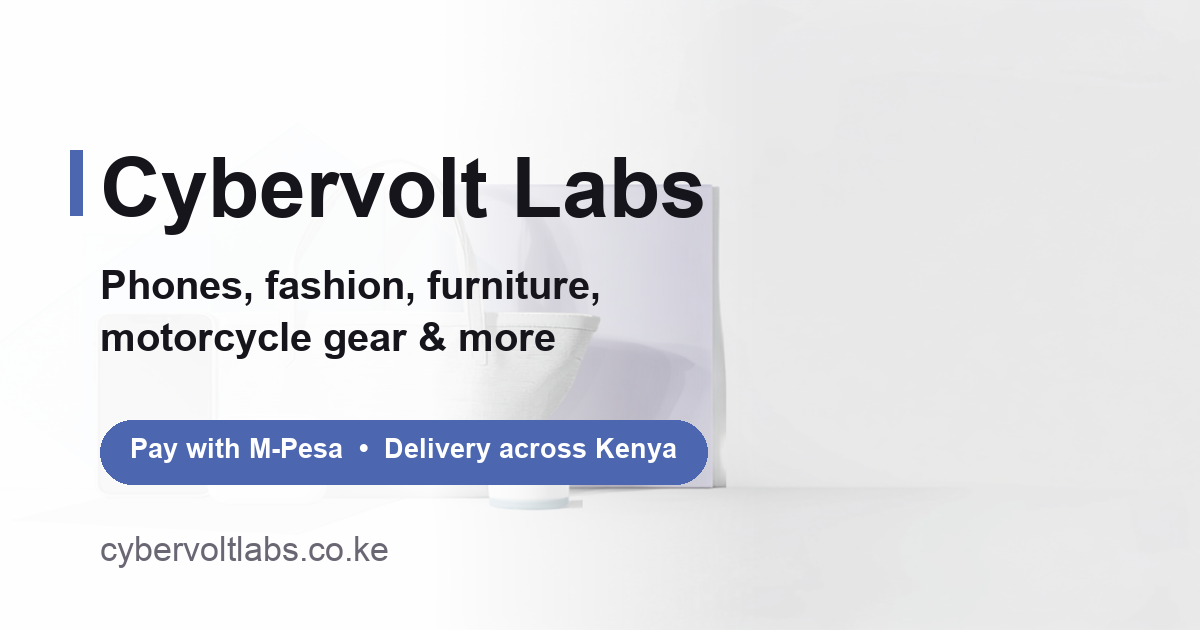
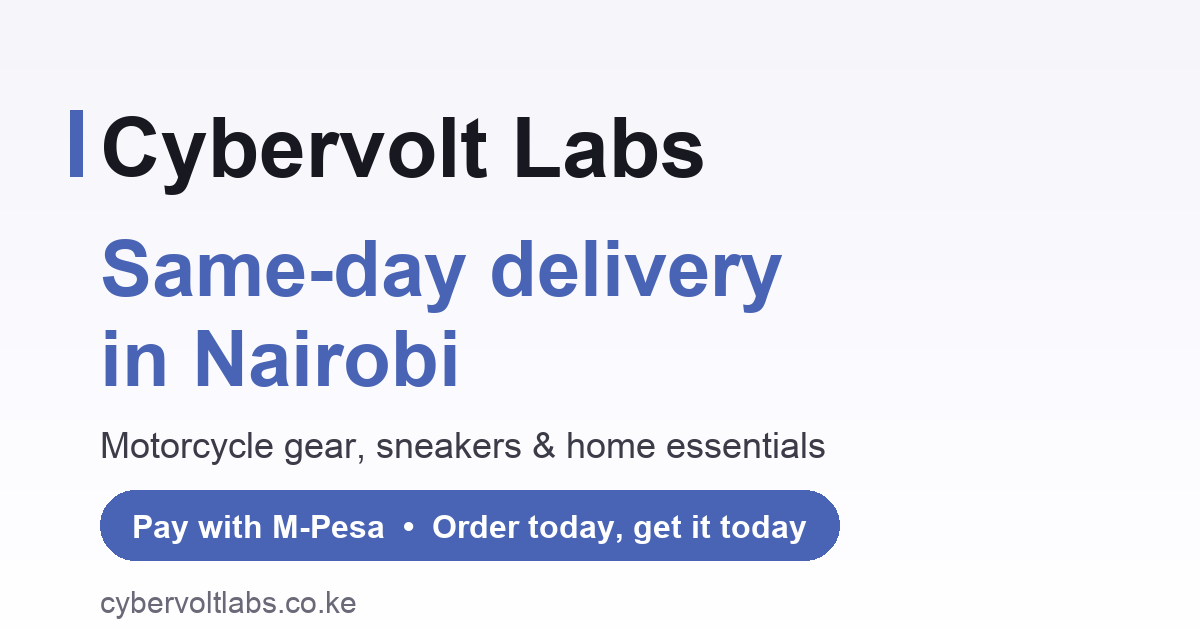
Promote same-day Nairobi delivery site-wide

Changed region(s): [[0.0308, 0.181, 0.8017, 1.0], [0.0925, 0.9349, 0.3083, 0.9952]]

diff --git a/lib/seo.ts b/lib/seo.ts
@@ -4,14 +4,14 @@ import { SOCIAL_LINKS } from "@/lib/social";
 
 export const SITE_URL = "https://cybervoltlabs.co.ke";
 export const SITE_NAME = "Cybervolt Labs";
-export const DEFAULT_TITLE = "Cybervolt Labs | Motorcycle Gear, Sneakers & Home in Kenya";
+export const DEFAULT_TITLE = "Cybervolt Labs | Same-Day Delivery in Nairobi, Kenya";
 export const DEFAULT_DESCRIPTION =
-  "Shop motorcycle riding gear, sneakers, bedding, home décor and smart gadgets at Cybervolt Labs. Pay with M-Pesa. Delivery across Kenya.";
+  "Same-day delivery in Nairobi. Shop motorcycle riding gear, sneakers, bedding, home décor and smart gadgets at Cybervolt Labs. Pay with M-Pesa.";
 
 const TITLE_SUFFIX = ` | ${SITE_NAME}`;
 
 // Used whenever a page has no image of its own (a page-level openGraph replaces the layout's).
-const SHARE_IMAGE_ALT = "Cybervolt Labs — motorcycle gear, sneakers and home essentials in Kenya. Pay with M-Pesa.";
+const SHARE_IMAGE_ALT = "Cybervolt Labs — same-day delivery in Nairobi. Motorcycle gear, sneakers and home essentials. Pay with M-Pesa.";
 
 export function absoluteUrl(path: string): string {
   if (/^https?:\/\//.test(path)) return path;
@@ -92,7 +92,7 @@ export function productMetadata(product: Product): Metadata {
   const lead = product.description ? firstSentence(product.description) : "";
   const description = composeDescription(
     lead ? `${product.name}: ${lead} ${kes(price)}.` : `Buy ${product.name} online in Kenya for ${kes(price)}.`,
-    ["Order from Cybervolt Labs, pay with M-Pesa, delivery across Kenya.", "Pay with M-Pesa; delivery across Kenya.", "Pay with M-Pesa."]
+    ["Order from Cybervolt Labs: same-day delivery in Nairobi, pay with M-Pesa.", "Same-day Nairobi delivery; pay with M-Pesa.", "Pay with M-Pesa."]
   );
   return pageMetadata({
     // Long names lose their bracketed qualifier rather than being cut off mid-word.
@@ -115,8 +115,8 @@ export function categoryMetadata(category: Category, products: Product[]): Metad
     count > 0
       ? `Shop ${category.name} in Kenya: ${count} product${count === 1 ? "" : "s"} from ${kes(prices[0])}${
           names.length ? `, including ${names.join(" and ")}` : ""
-        }. Pay with M-Pesa; delivery across Kenya.`
-      : `Shop ${category.name} in Kenya at Cybervolt Labs. Pay with M-Pesa; delivery across Kenya.`;
+        }. Same-day delivery in Nairobi; pay with M-Pesa.`
+      : `Shop ${category.name} in Kenya at Cybervolt Labs. Same-day delivery in Nairobi; pay with M-Pesa.`;
   return pageMetadata({
     title: fitTitle([`${category.name} in Kenya`, category.name]),
     description: truncate(body, 158),

diff --git a/app/product/[slug]/page.tsx b/app/product/[slug]/page.tsx
@@ -10,6 +10,7 @@ import PriceTag from "@/components/PriceTag";
 import StarRating from "@/components/StarRating";
 import StockUrgencyBar from "@/components/StockUrgencyBar";
 import ProductActions from "@/components/ProductActions";
+import { SAME_DAY_HEADLINE } from "@/lib/store-info";
 import ProductCard from "@/components/ProductCard";
 import ReviewsCarousel from "@/components/ReviewsCarousel";
 
@@ -77,6 +78,10 @@ export default async function ProductPage({ params }: { params: { slug: string }
           </div>
 
           <PriceTag price={product.price} discountPrice={product.discountPrice} size="lg" />
+
+          <p className="flex items-center gap-2 rounded-card border border-primary/30 bg-primary/5 px-3 py-2 text-sm font-semibold text-primary">
+            <span aria-hidden="true">🚚</span> {SAME_DAY_HEADLINE} — order today, get it today
+          </p>
 
           {isLowStock && (
             <p className="text-sm font-medium text-deal">Only {product.stock} left in stock — order soon</p>

diff --git a/app/about/page.tsx b/app/about/page.tsx
@@ -4,7 +4,7 @@ import { pageMetadata } from "@/lib/seo";
 export const metadata: Metadata = pageMetadata({
   title: "Our Story",
   description:
-    "Kenyan online shop in Ongata Rongai selling motorcycle gear, sneakers, bedding and home décor. Pay with M-Pesa; delivery across Kenya.",
+    "Kenyan online shop in Ongata Rongai selling motorcycle gear, sneakers, bedding and home décor. Same-day delivery in Nairobi; pay with M-Pesa.",
   path: "/about",
 });
 
@@ -19,7 +19,7 @@ export default function AboutPage() {
         chasing the lowest possible price.
       </p>
       <p className="text-muted">
-        Today this storefront brings everything under one roof, with the same fast Nairobi delivery,
+        Today this storefront brings everything under one roof, with same-day Nairobi delivery,
         M-Pesa payment, and WhatsApp support our customers already know us for.
       </p>
     </div>

diff --git a/app/checkout/page.tsx b/app/checkout/page.tsx
@@ -19,6 +19,7 @@ import { getAllReviews } from "@/lib/reviews";
 import ReviewsCarousel from "@/components/ReviewsCarousel";
 import ManualPaymentConfirm from "@/components/ManualPaymentConfirm";
 import CheckoutSteps from "@/components/CheckoutSteps";
+import { SAME_DAY_HEADLINE } from "@/lib/store-info";
 
 type Phase = "form" | "waiting-for-approval" | "manual-payment";
 
@@ -165,7 +166,8 @@ export default function CheckoutPage() {
   return (
     <div>
     <div className="mx-auto max-w-2xl px-4 py-6">
-      <h1 className="mb-4 text-xl font-bold">Checkout</h1>
+      <h1 className="mb-1 text-xl font-bold">Checkout</h1>
+      <p className="mb-4 text-sm font-medium text-primary">🚚 {SAME_DAY_HEADLINE} — order today, get it today</p>
       <CheckoutSteps current={1} />
 
       <div className="mb-6 rounded-card border border-border bg-surface p-4">

diff --git a/app/layout.tsx b/app/layout.tsx
@@ -4,6 +4,7 @@ import "./globals.css";
 import { CartProvider } from "@/lib/cart-context";
 import { AuthProvider } from "@/lib/auth-context";
 import CategoryNav from "@/components/CategoryNav";
+import DeliveryBanner from "@/components/DeliveryBanner";
 import Footer from "@/components/Footer";
 import WhatsAppFloatButton from "@/components/WhatsAppFloatButton";
 import GoogleAnalytics from "@/components/GoogleAnalytics";
@@ -53,6 +54,7 @@ export default async function RootLayout({ children }: { children: React.ReactNo
       <body className={`${brandFont.variable} font-sans antialiased`}>
         <AuthProvider>
           <CartProvider>
+            <DeliveryBanner />
             <CategoryNav categories={categories} />
             <main className="min-h-screen">{children}</main>
             <Footer categories={categories} />

diff --git a/components/TrustSection.tsx b/components/TrustSection.tsx
@@ -1,6 +1,6 @@
 const TRUST_ITEMS = [
+  { icon: "🚚", title: "Same-Day Delivery", description: "Nairobi orders dispatched within 2 hours and delivered the same day. Countrywide in 2-4 days." },
   { icon: "🏷", title: "Clear Prices", description: "Every price is shown in Kenya shillings." },
-  { icon: "🚚", title: "Fast Delivery", description: "Orders dispatched within 2 hours. Nairobi same/next-day, countrywide in 2-4 days." },
   { icon: "🔒", title: "M-Pesa & Secure Payment", description: "Pay securely with M-Pesa." },
   { icon: "🛡", title: "Buyer Protection", description: "Returns accepted within 48 hours of delivery." },
   { icon: "💬", title: "WhatsApp Support", description: "Real humans, real answers, same day." },

diff --git a/app/page.tsx b/app/page.tsx
@@ -28,8 +28,8 @@ const HERO_SLIDES = [
   {
     image: "/assets/images/hero-1.webp",
     alt: "Cybervolt Labs featured products",
-    title: "Gear Up. Step Out.",
-    subtitle: "Motorcycle gear, sneakers and home essentials — delivered across Kenya.",
+    title: "Order Today. Get It Today.",
+    subtitle: "Same-day delivery in Nairobi on motorcycle gear, sneakers and home essentials. Countrywide in 2–4 days.",
     ctaText: "Shop Motorcycle Gear",
     ctaHref: "/category/motorcycle-gear",
   },

diff --git a/components/DeliveryBanner.tsx b/components/DeliveryBanner.tsx
@@ -1,0 +1,12 @@
+import { SAME_DAY_HEADLINE } from "@/lib/store-info";
+
+// Slim strip above the header on every page. Scrolls away with the page;
+// the sticky header below stays.
+export default function DeliveryBanner() {
+  return (
+    <div className="bg-primary px-4 py-2 text-center text-sm font-semibold text-white">
+      <span aria-hidden="true">🚚 </span>
+      {SAME_DAY_HEADLINE} <span className="font-normal opacity-90">— order today, get it today</span>
+    </div>
+  );
+}

diff --git a/lib/store-info.ts b/lib/store-info.ts
@@ -12,3 +12,7 @@ export const ORDER_HOLD_TIME = clean(process.env.NEXT_PUBLIC_ORDER_HOLD_TIME);
 
 // e.g. "1–2 days within Nairobi, 2–4 days elsewhere"
 export const DELIVERY_ESTIMATE = clean(process.env.NEXT_PUBLIC_DELIVERY_ESTIMATE);
+
+// The headline promise, repeated in the banner, hero, product pages and checkout.
+// Scoped to Nairobi on purpose; the rest of the country is 2-4 days.
+export const SAME_DAY_HEADLINE = "Same-day delivery in Nairobi";

diff --git a/app/contact/page.tsx b/app/contact/page.tsx
@@ -28,7 +28,7 @@ export default function ContactPage() {
         <p>Email: hello@cybervoltlabs.co.ke</p>
         <p>Instagram: @cybervolt_labs_ &middot; TikTok: @cybervolt_labs</p>
         <p>Facebook &amp; LinkedIn: Cybervolt Labs Kenya</p>
-        <p>Based in Nairobi, Kenya — delivering countrywide.</p>
+        <p>Based in Nairobi, Kenya — same-day delivery in Nairobi, countrywide in 2-4 days.</p>
       </div>
     </div>
   );
